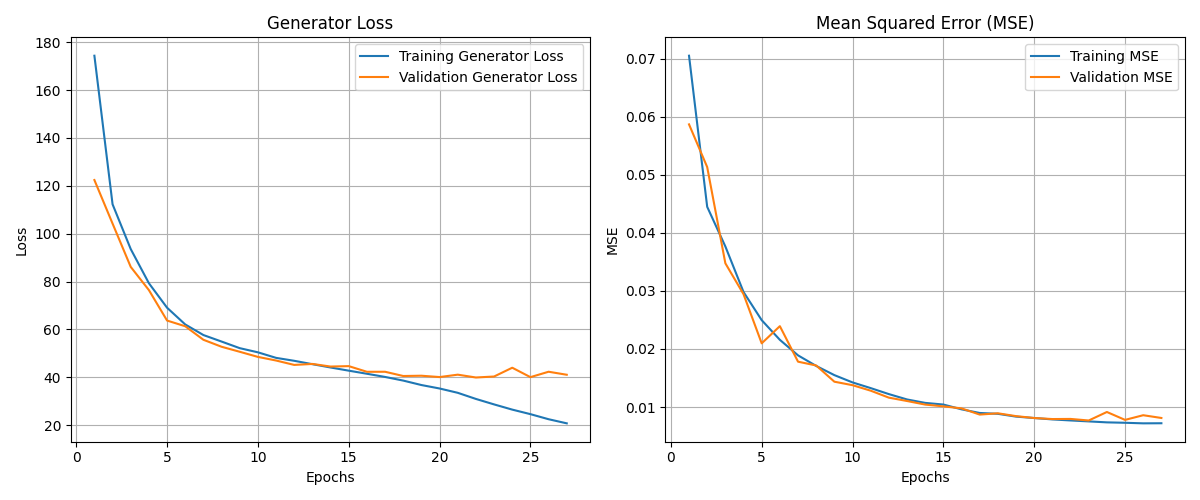
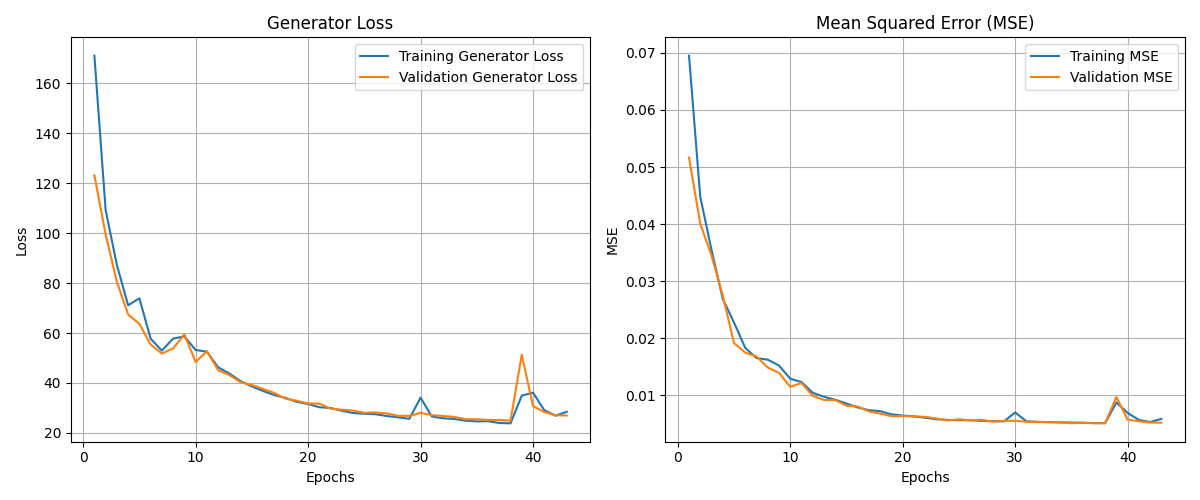
24/11/25

diff --git a/DenoiseImages.py b/DenoiseImages.py
@@ -61,7 +61,7 @@ def unet_generator(input_size=(128, 128, 1)):
 # 3. 加載預訓練的生成器模型權重
 print("加載生成器模型...")
 generator = unet_generator()
-model_weights = 'D:\\GitHub\\Denoise\\training_checkpoints\\generator_epoch_27'  # 請替換為您的最佳模型權重文件路徑
+model_weights = 'D:\\GitHub\\Denoise\\training_checkpoints\\generator_epoch_43'  # 請替換為您的最佳模型權重文件路徑
 generator.load_weights(model_weights)
 print(f"已加載模型權重：{model_weights}")
 
